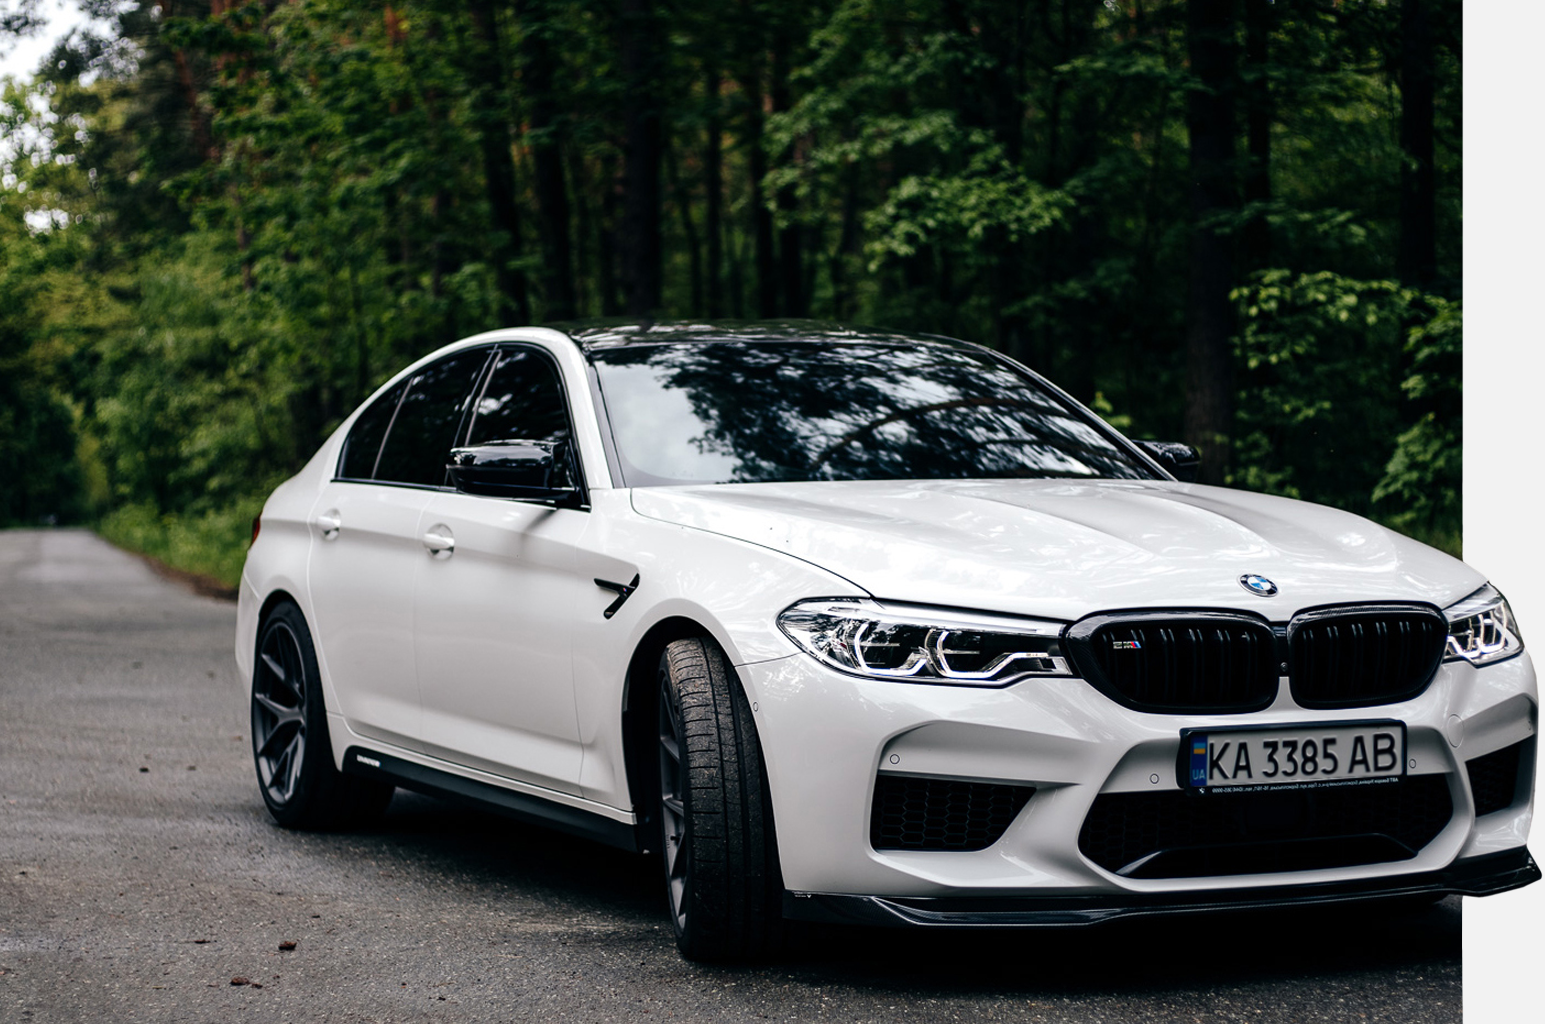
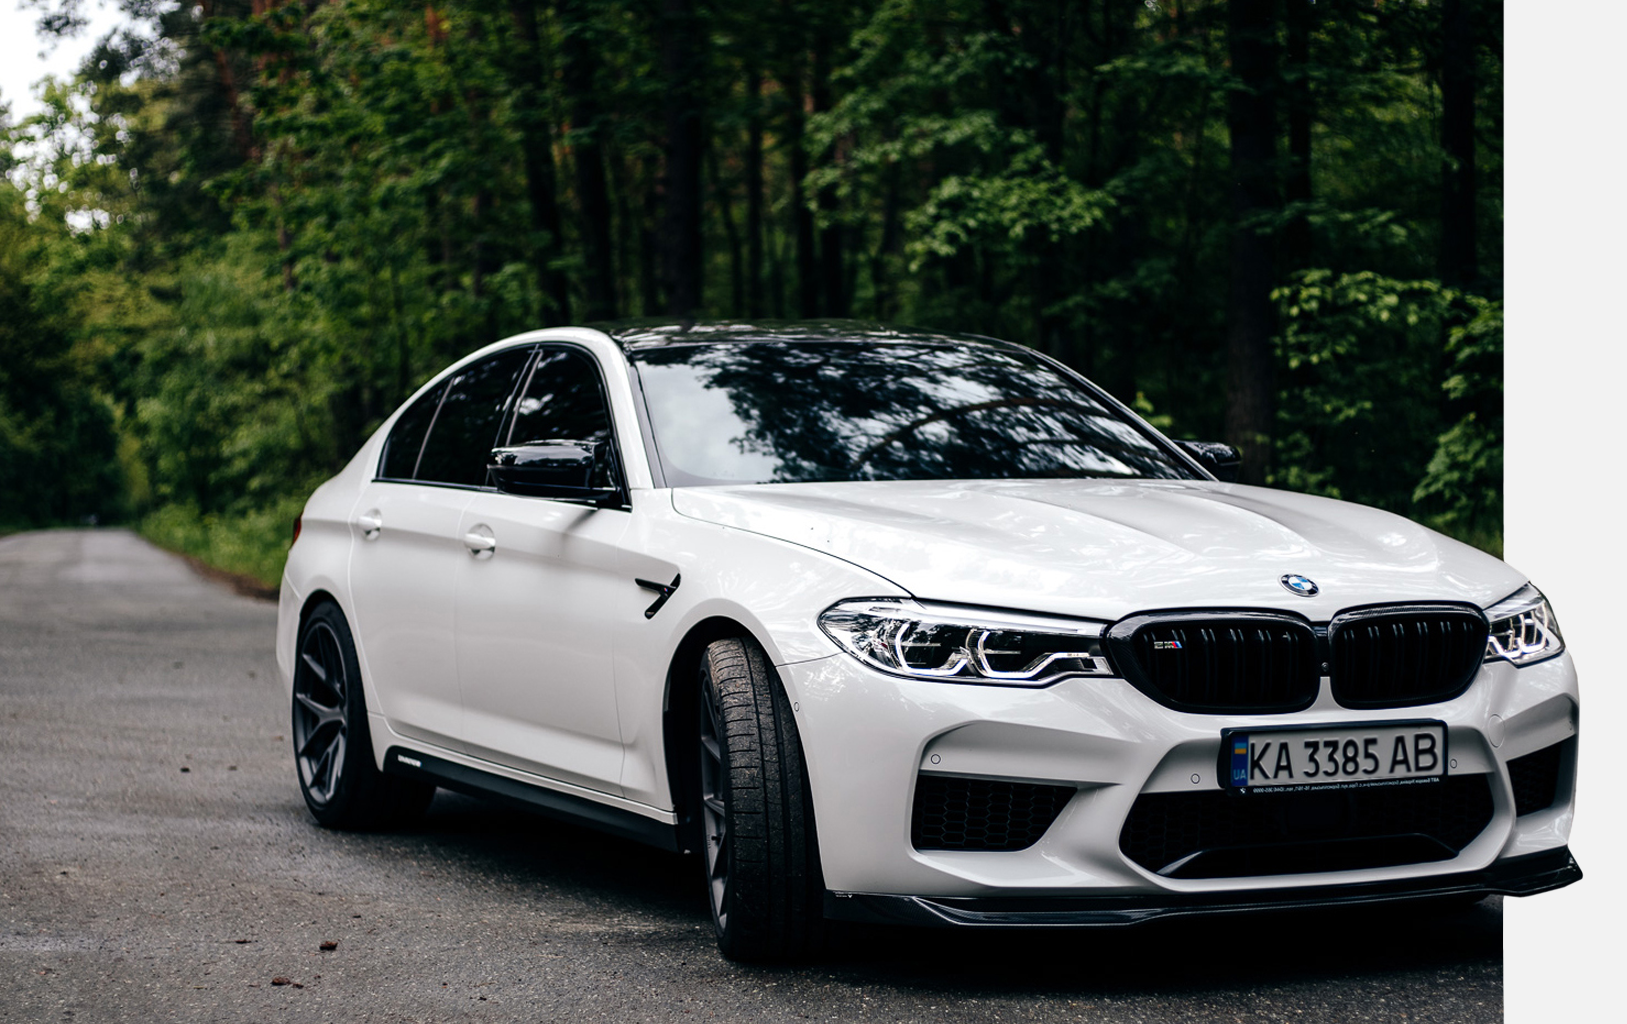
Added some fixes

diff --git a/ru_adrive.html b/ru_adrive.html
@@ -696,7 +696,7 @@
     <div class="container container__left car-container lamborghini ferrari bmw" id="bmw">
         <div class="container__col zi-3">
             <div class="lamborghini__image-wrap sliders" data-slider="bmw">
-                <picture class="w-100 cover bmw-slides" style="margin-left: 5vh">
+                <picture class="w-100 cover bmw-slides" style="width: 108%">
                     <source class="w-100 cover" srcset="/img/bmw/bmw11.webp" type="image/webp">
                     <source class="w-100 cover" srcset="/img/bmw/bmw1.png" type="image/png"><img class="w-100 cover" srcset="/img/bmw/bmw1.png"></picture>
                 <picture class="w-100 cover bmw-slides">
